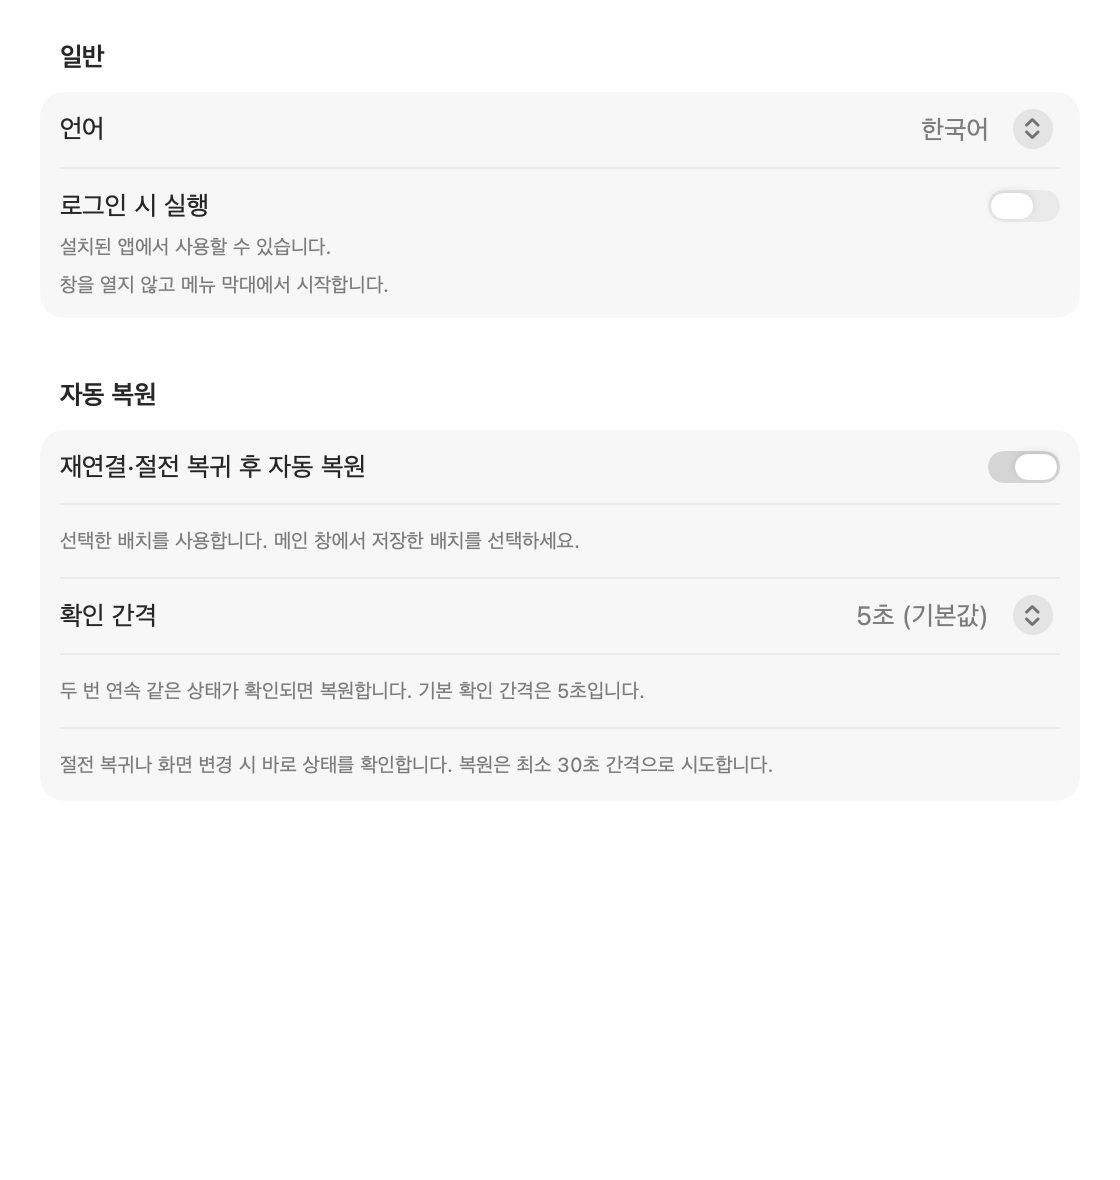
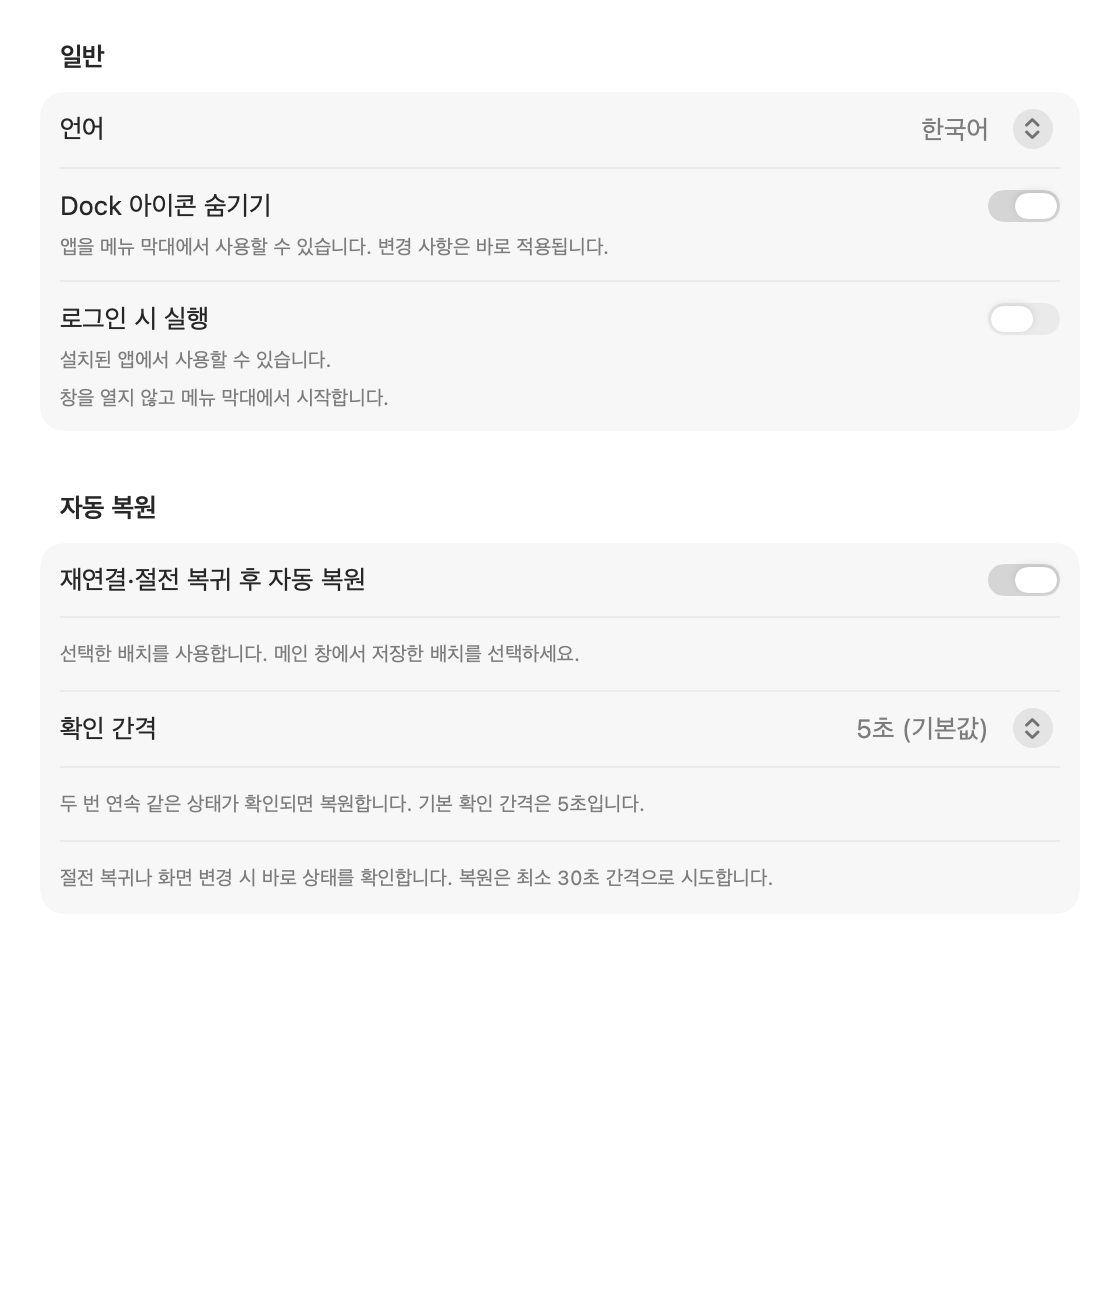
build: distribute the app as Display Remember

diff --git a/Tests/DisplayRememberCoreTests/EngineTests.swift b/Tests/DisplayRememberCoreTests/EngineTests.swift
@@ -24,9 +24,9 @@ final class EngineTests: XCTestCase {
         }
     }
 
-    func testSymlinkedPackagedCLIResolvesItsBundledHelper() throws {
+    func testSymlinkedPackagedCLIResolvesItsBundledHelperInAppWithSpaces() throws {
         try withDirectory { directory in
-            let app = directory.appendingPathComponent("display-remember.app")
+            let app = directory.appendingPathComponent("Display Remember.app")
             let cli = app.appendingPathComponent("Contents/MacOS/display-remember")
             let helper = app.appendingPathComponent("Contents/Helpers/displayplacer")
             let bin = directory.appendingPathComponent("bin")
@@ -46,7 +46,7 @@ final class EngineTests: XCTestCase {
 
     func testSymlinkedPackagedCLIWithMissingHelperCannotUseOtherCopies() throws {
         try withDirectory { directory in
-            let app = directory.appendingPathComponent("display-remember.app")
+            let app = directory.appendingPathComponent("Display Remember.app")
             let cli = app.appendingPathComponent("Contents/MacOS/display-remember")
             let bin = directory.appendingPathComponent("bin")
             let link = bin.appendingPathComponent("display-remember")

diff --git a/scripts/replace-app.swift b/scripts/replace-app.swift
@@ -9,8 +9,8 @@ guard CommandLine.arguments.count == 3 else {
 }
 let staged = URL(fileURLWithPath: CommandLine.arguments[1]).standardizedFileURL
 let destination = URL(fileURLWithPath: CommandLine.arguments[2]).standardizedFileURL
-guard staged != destination, staged.lastPathComponent == "display-remember.app",
-      destination.lastPathComponent == "display-remember.app" else { exit(2) }
+guard staged != destination, staged.lastPathComponent == "Display Remember.app",
+      destination.lastPathComponent == "Display Remember.app" else { exit(2) }
 let result: Int32
 if FileManager.default.fileExists(atPath: destination.path) {
     result = renameatx_np(AT_FDCWD, staged.path, AT_FDCWD, destination.path, UInt32(RENAME_SWAP))

diff --git a/README.md b/README.md
@@ -1,10 +1,10 @@
-# display-remember
+# Display Remember
 
 Remember physical monitors and restore their saved layout after reconnection or wake.
 
-Arrange your displays in macOS System Settings, then save the result in display-remember. The app identifies monitors using EDID-derived metadata instead of relying on the current display ID or port order.
+Arrange your displays in macOS System Settings, then save the result in Display Remember. The app identifies monitors using EDID-derived metadata instead of relying on the current display ID or port order.
 
-![display-remember showing a saved layout and connected displays](docs/images/app.png)
+![Display Remember showing a saved layout and connected displays](docs/images/app.png)
 
 The screenshot uses fictional display data.
 
@@ -22,11 +22,11 @@ Homebrew is an installation option, not a runtime dependency. The app bundles it
 
 ## Use
 
-1. Open display-remember and choose **Open Displays Settings**. This turns off automatic restoration before opening the macOS Displays panel.
+1. Open Display Remember and choose **Open Displays Settings**. This turns off automatic restoration before opening the macOS Displays panel.
 2. Set the resolution, arrangement, rotation, and mirroring in System Settings.
 3. Return to the app, check the current layout, and save it with a name.
 4. Select a saved layout to preview or restore it. Optionally enable automatic restoration while the app is running.
-5. Open **Settings…** (`⌘,`) to choose a language, change the check interval, or enable **Launch at login**.
+5. Open **Settings…** (`⌘,`) to choose a language, show or hide the Dock icon, change the check interval, or enable **Launch at login**.
 
 Monitor settings and the layout diagram in the app are read-only. Restoring a saved layout changes the display configuration. Automatic restoration is off by default; turn it off before changing your layout, then save the new layout before enabling it again.
 
@@ -35,6 +35,7 @@ The app remembers your selected profile and automatic restoration choice across 
 ### App settings
 
 - **Language:** follow the system language, use English, or use Korean (한국어). Changes appear immediately. Other system languages fall back to English. CLI output and technical diagnostics remain in English.
+- **Hide Dock icon:** on by default. The app stays available in the menu bar, including while its main window is open. Changes apply immediately and persist across launches; turn this off to show the Dock icon.
 - **Launch at login:** off by default. When enabled, the app starts in the menu bar after you log in, without opening its main window. macOS manages the login item; if approval is needed, Settings links to the system Login Items panel.
 - **Check interval:** 2, 5, 10, 30, or 60 seconds; the default is 5. Polling runs only while automatic restoration is enabled. Wake and display-change events also refresh the inventory. Restoration waits for two stable polling observations and keeps a 30-second cooldown between attempts, so the interval is not a guaranteed restoration deadline.
 
@@ -49,7 +50,7 @@ Profiles are stored in `~/Library/Application Support/display-remember/Profiles`
 The app includes a command-line interface:
 
 ```sh
-CLI="/Applications/display-remember.app/Contents/MacOS/display-remember"
+CLI="/Applications/Display Remember.app/Contents/MacOS/display-remember"
 
 "$CLI" scan
 "$CLI" save desk.json --name Desk
@@ -91,7 +92,7 @@ swift test --build-system native
 scripts/build-app.sh
 ```
 
-The build creates `dist/display-remember.app` and a ZIP archive. Use `scripts/build-app.sh debug` for a debug build. Signing and notarization for published artifacts are separate release steps; local builds should not be assumed notarized.
+The build creates `dist/Display Remember.app` and a ZIP archive. Use `scripts/build-app.sh debug` for a debug build. Signing and notarization for published artifacts are separate release steps; local builds should not be assumed notarized.
 
 ```text
 Sources/DisplayRememberApp/      SwiftUI app, menu bar, and restoration scheduling

diff --git a/docs/RELEASING.md b/docs/RELEASING.md
@@ -1,4 +1,4 @@
-# Releasing
+# Releasing Display Remember
 
 The version in `Sources/DisplayRememberCore/Version.swift` is shared by the CLI
 and app bundle. The public Homebrew cask currently targets Apple Silicon.
@@ -6,7 +6,7 @@ and app bundle. The public Homebrew cask currently targets Apple Silicon.
 ## Validate
 
 Run `swift test --build-system native`, then build and inspect the app. Use
-`DisplayRemember --render-demo OUTPUT.png` for screenshots containing fictional
+`"dist/Display Remember.app/Contents/MacOS/DisplayRemember" --render-demo OUTPUT.png` for screenshots containing fictional
 data. Do not publish real profiles, scan output, local notes, or signing files.
 
 Also render `--render-demo-ko`, `--render-settings-demo`, and
@@ -14,6 +14,12 @@ Also render `--render-demo-ko`, `--render-settings-demo`, and
 modes use memory-only preferences and do not register login items. Check language
 switching and the login toggle in an installed app before claiming manual coverage;
 synthetic launch-event tests do not replace a real logout/login check.
+
+Verify **Hide Dock icon** is on for fresh preferences, changes take effect
+immediately, and the choice survives relaunch. Opening the main window or Settings
+must respect that choice. Login launch still starts without the main window.
+The app bundle is named `Display Remember.app`; the CLI remains `display-remember`.
+The bundle identifier and existing profile and preference storage paths are unchanged.
 
 ## Sign and package
 
@@ -33,9 +39,9 @@ If using Xcode to notarize an archive, export the notarized app and package it
 without rebuilding or re-signing:
 
 ```sh
-xcrun stapler validate /path/to/display-remember.app
-spctl --assess --type execute --verbose=2 /path/to/display-remember.app
-scripts/package-app.sh /path/to/display-remember.app
+xcrun stapler validate "/path/to/Display Remember.app"
+spctl --assess --type execute --verbose=2 "/path/to/Display Remember.app"
+scripts/package-app.sh "/path/to/Display Remember.app"
 ```
 
 Packaging writes `dist/display-remember-VERSION-arm64.zip` and its `.sha256`

diff --git a/CONTRIBUTING.md b/CONTRIBUTING.md
@@ -12,7 +12,7 @@ swift test --build-system native
 scripts/build-app.sh debug
 ```
 
-The app bundle is written to `dist/display-remember.app`. The bundled CLI is at `dist/display-remember.app/Contents/MacOS/display-remember`.
+The app bundle is written to `dist/Display Remember.app`. The bundled CLI is at `dist/Display Remember.app/Contents/MacOS/display-remember`.
 
 Add regression tests for changes to parsing, identity matching, profile validation, restoration, and process handling. Use fixtures and fake processes for automated tests. Preserve argument-array execution, timeouts, and refusal to guess between ambiguous monitors.
 
